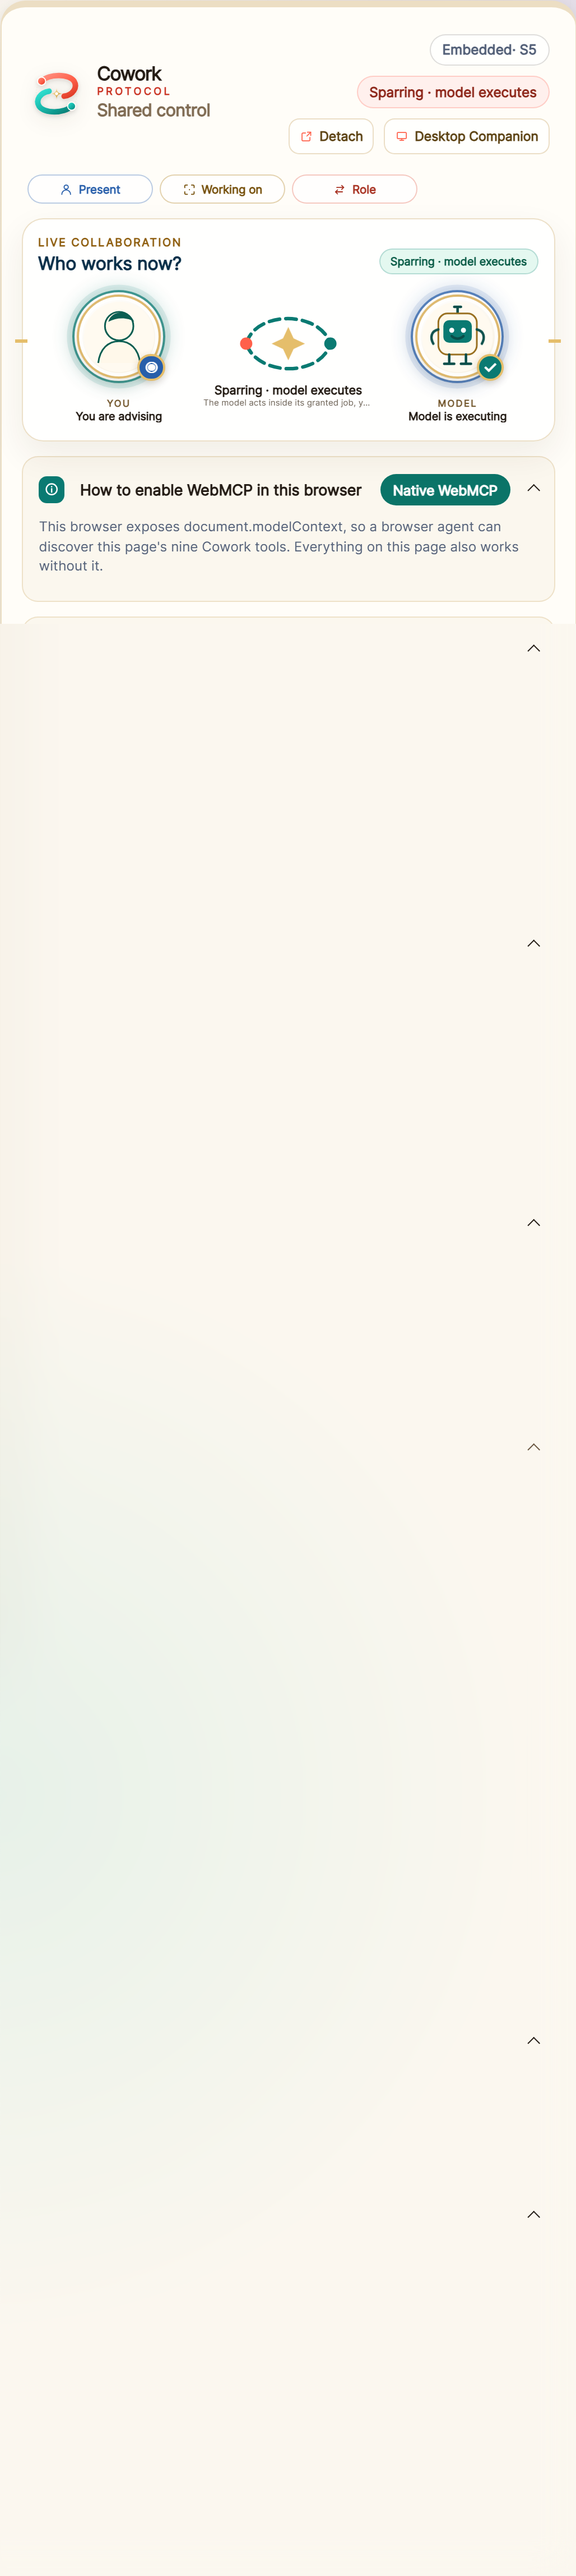
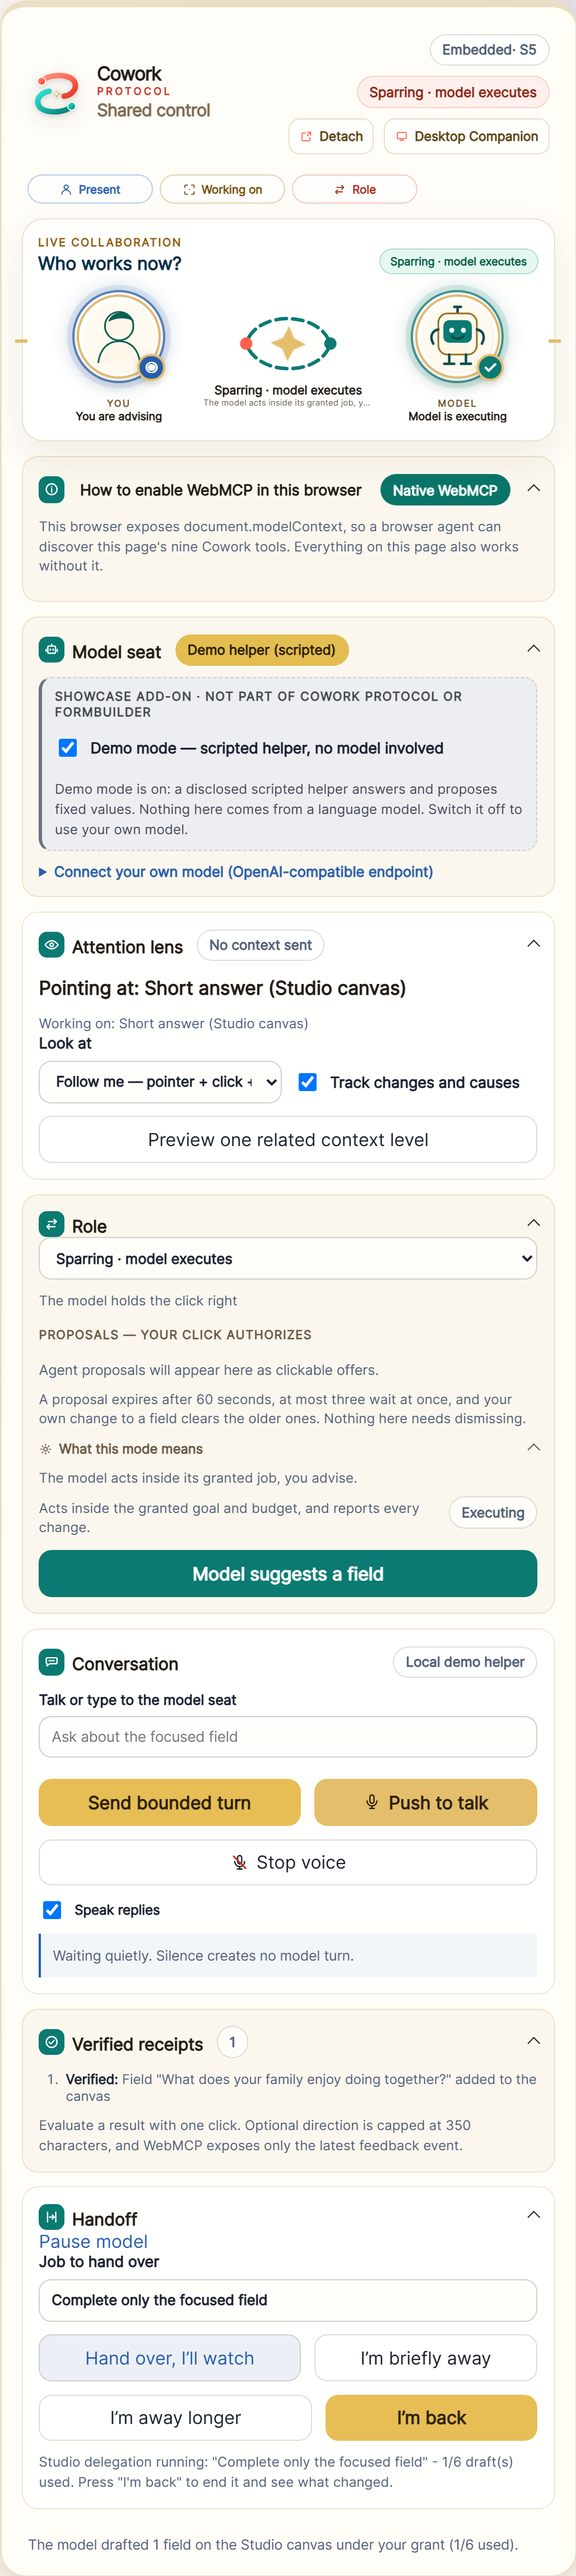
docs(panel-tour): a full Companion frame, shot on a Companion started for it
The capture script used to default COWORK_COMPANION_UI to 127.0.0.1:47831,
which is where a developer's own Companion listens. A tour run therefore
photographed a live session, its real conversation included, into a public
documentation image. The default is gone.

This frame comes from a Companion started for the shoot: an in-process host on
an ephemeral port with an empty session store, one locally served showcase page
linked to it, and one fixture reply standing in for the model. It shows the
whole window rather than a narrow slice, because what the picture is there to
show is that the Companion holds the seat while the page keeps the click.

panel-handover.png is from the same run, so the set stays one capture.

diff --git a/docs/panel-tour.md b/docs/panel-tour.md
@@ -323,9 +323,17 @@ the clicks where the reader already sees them. Both frames come from
 
 The Desktop Companion is an app window with no extension involved: not tied to
 one browser, with a filtered Computer Use fallback next to structured WebMCP
-execution. While it is connected it **holds the session's model seat** — the
-screenshot shows a restored `formbuilder-showcase` session at revision 49 with
-a local `qwen3.8:27b-mlx` in the seat. See
+execution. While it is connected it **holds the session's model seat**, which is
+why it is a vehicle and not a bridge: it carries a model across whichever bridge
+it is linked to, and the page keeps the click.
+
+The frame comes from a Companion started for the shoot: an in-process host on an
+ephemeral port with an empty session store, one locally served showcase page
+linked to it, and one fixture reply standing in for the model. It is not a
+picture of anyone's running Companion. The capture script has no default for
+`COWORK_COMPANION_UI` for that reason — the old default was the port a
+developer's own Companion listens on, and one run photographed a live session
+and its real conversation into this repository. See
 [apps/desktop-companion/README.md](../apps/desktop-companion/README.md).
 
 ## Still open

diff --git a/docs/evidence.md b/docs/evidence.md
@@ -820,10 +820,15 @@ measured saying it.
   waiting for a click is an agent waiting for an answer.
 - **Gates at this commit.** `node --test` 496 of 496; pages artifact 36 files;
   extension artifact 22 files; `check:secrets` and `check:architecture` pass.
-- **Panel tour re-recorded** from a locally served copy of this branch
-  (`COWORK_PANEL_TOUR_URL=http://127.0.0.1:4191/apps/formbuilder-showcase/`),
-  adding `panel-bridge-resting.png` and replacing the stale extension frame with
-  a crossing and a resting one from the cockpit smoke.
+- **Panel tour re-recorded** from a locally served copy of this branch, adding
+  `panel-bridge-resting.png` and replacing the stale extension frame with a
+  crossing and a resting one from the cockpit smoke. `companion-ui.png` comes
+  from a Companion started for the shoot: `createCompanionSessionHost` on an
+  ephemeral port with an empty session store, one locally served page linked to
+  it and one fixture reply. An earlier run had photographed a live Companion,
+  conversation included, because the capture script defaulted
+  `COWORK_COMPANION_UI` to the port a developer's own Companion listens on.
+  That default is gone; an unset variable now skips the frame with a warning.
 
 ## Explicitly not yet evidenced
 
